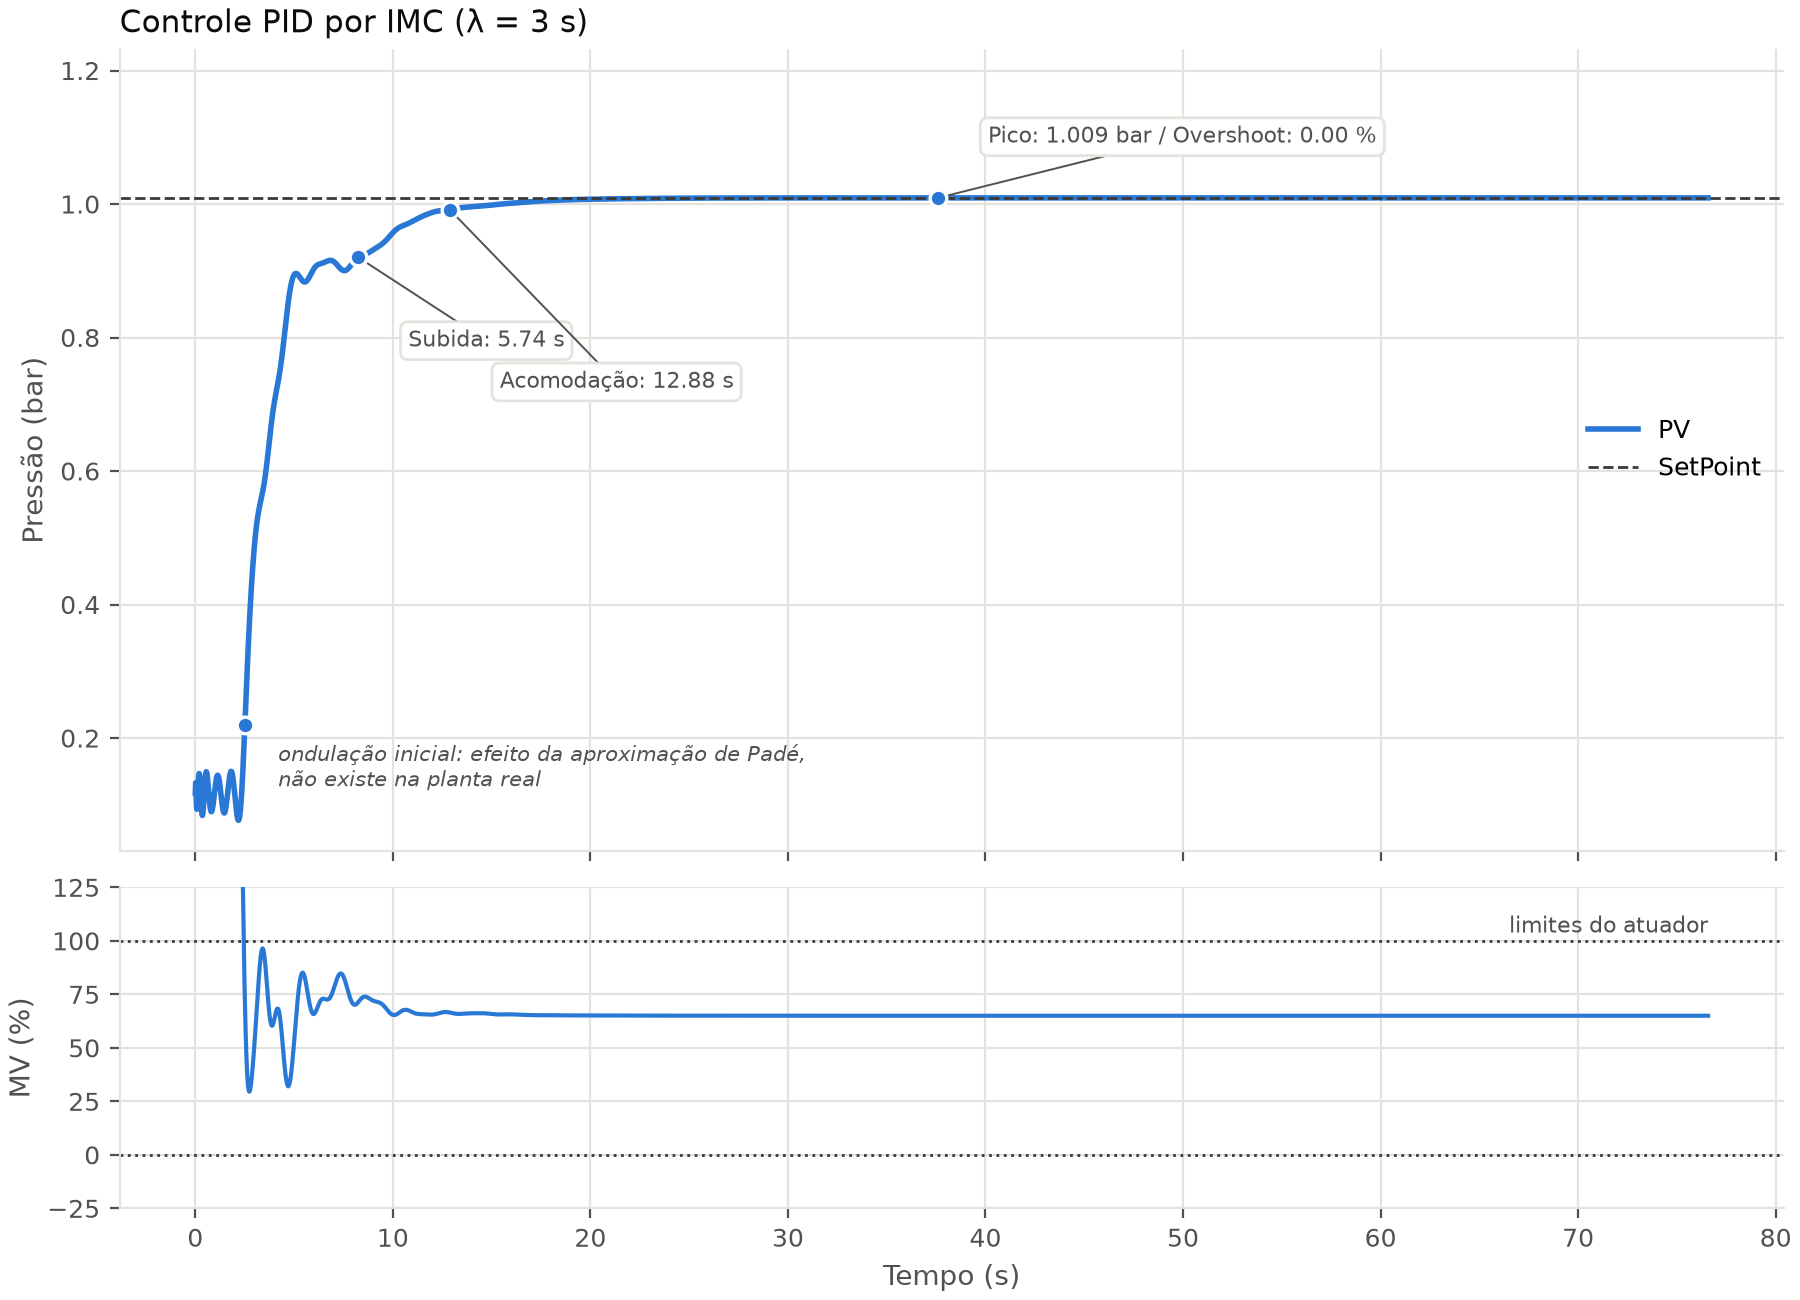
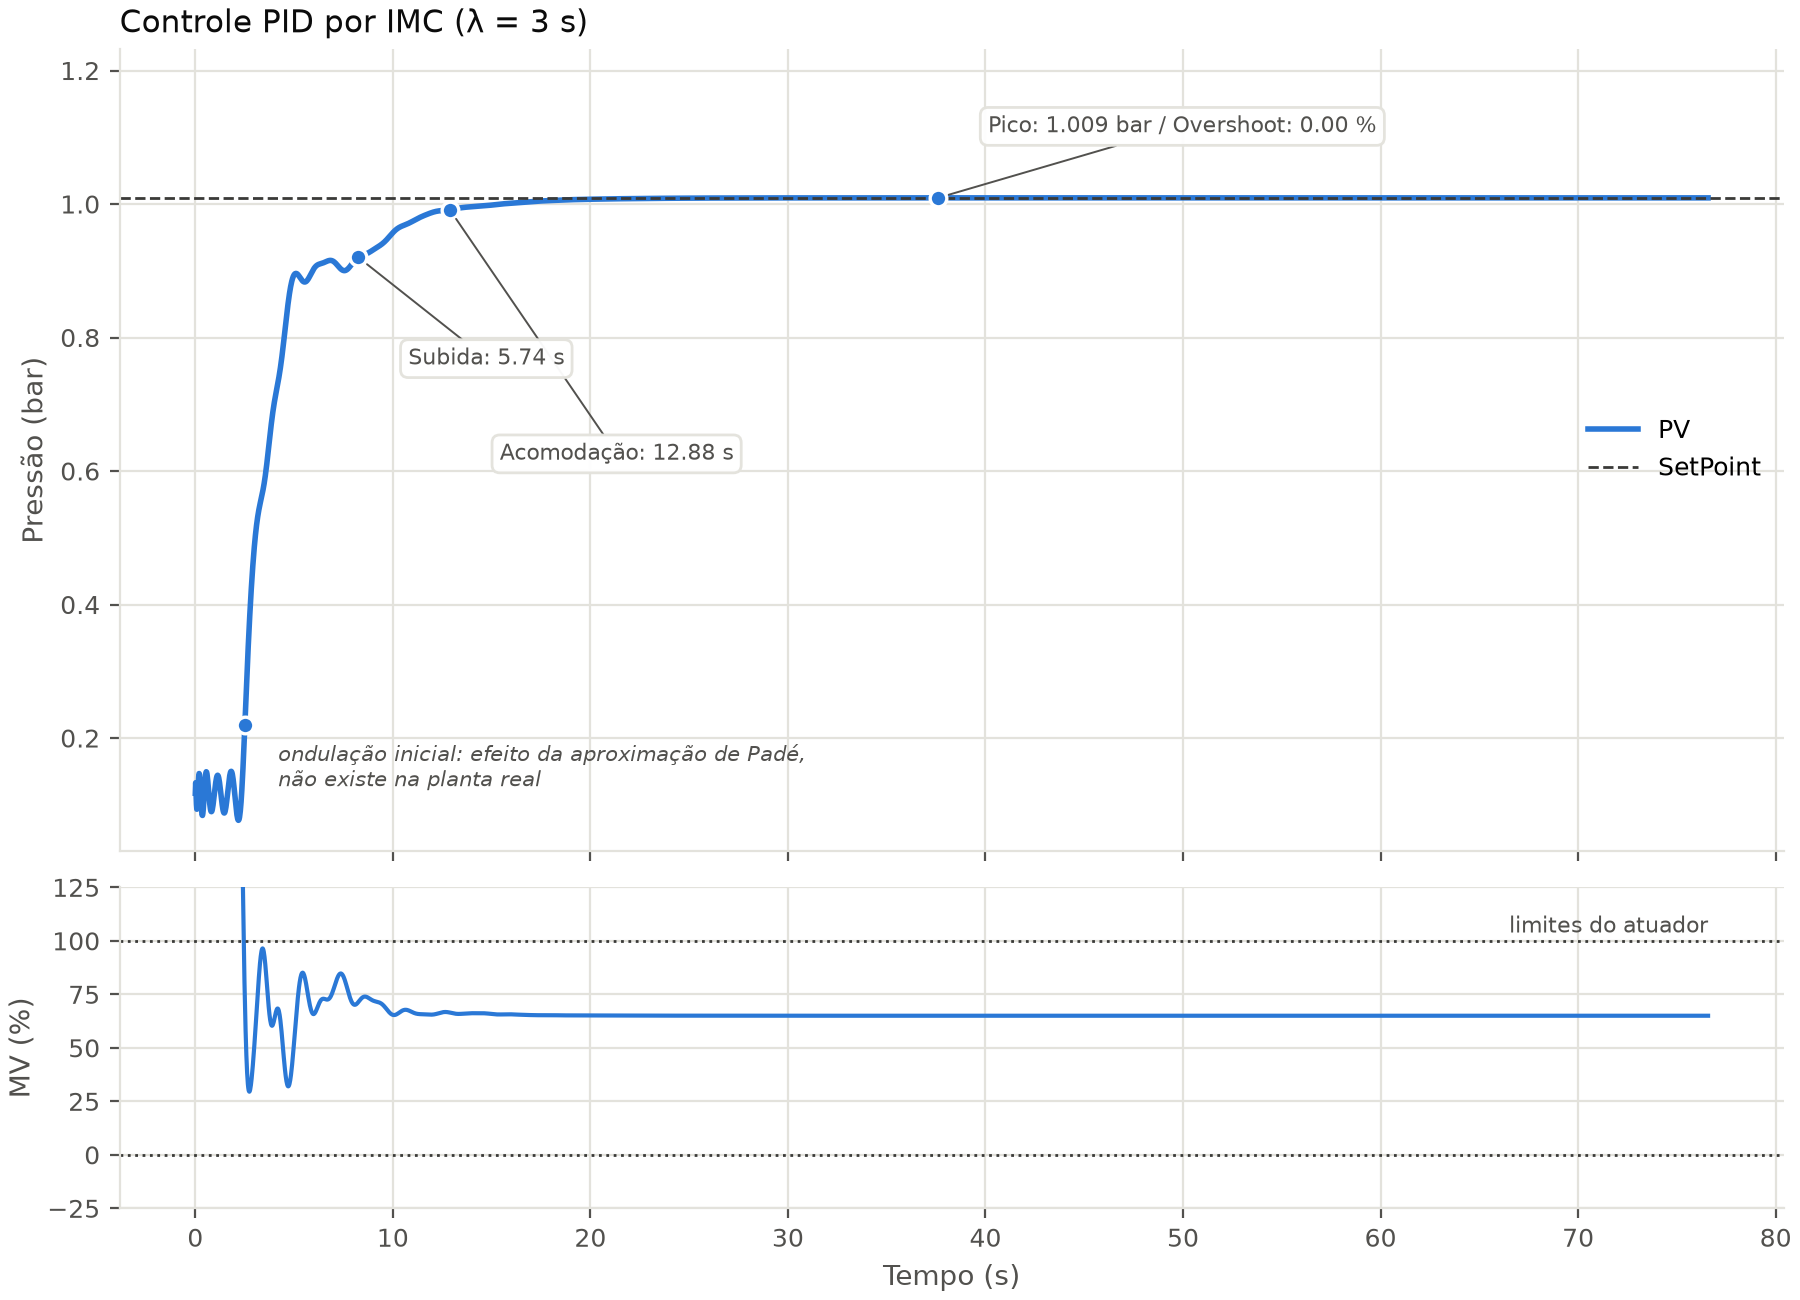
Posiciona os rótulos de subida e acomodação sem sobreposição em qualquer tamanho de gráfico

Changed region(s): [[0.5289, 0.0615, 0.7778, 0.1538], [0.2178, 0.2154, 0.4044, 0.3692]]

diff --git a/src/graficos.py b/src/graficos.py
@@ -112,14 +112,16 @@ def desenhar_controle(ax_pv, ax_mv, resposta, titulo: str = "", unidade: str = "
         ax_pv.plot([x], [y], "o", markersize=6, color=cor, markeredgecolor="white",
                    markeredgewidth=1.2, zorder=5)
 
-    def rotulo(x, y, texto, dy, pontos):
-        """Rótulo ligado ao ponto, deslocado `dy` pontos (positivo = acima da curva).
+    def rotulo(x, y, texto, y_texto, pontos):
+        """Rótulo ligado ao ponto (x, y), com o texto na altura `y_texto` (em dados).
 
-        `pontos` são os pontos do gráfico que acionam o rótulo no hover.
+        A altura em dados, e não em pontos de tela, garante a mesma separação entre
+        rótulos vizinhos em qualquer tamanho de gráfico. `pontos` são os pontos que
+        acionam o rótulo no hover.
         """
         direita = x <= t_meio                  # na metade direita o texto vai para a esquerda
-        anotacao = ax_pv.annotate(texto, (x, y), xytext=(18 if direita else -18, sentido * dy),
-                       textcoords="offset points", ha="left" if direita else "right",
+        anotacao = ax_pv.annotate(texto, (x, y), xytext=(18 if direita else -18, y_texto),
+                       textcoords=("offset points", "data"), ha="left" if direita else "right",
                        va="center", fontsize=8, color=COR_TEXTO, zorder=6,
                        bbox=dict(boxstyle="round,pad=0.35", facecolor="white",
                                  edgecolor=COR_GRADE, alpha=0.96),
@@ -135,23 +137,30 @@ def desenhar_controle(ax_pv, ax_mv, resposta, titulo: str = "", unidade: str = "
                        ha="left", va="bottom" if sentido > 0 else "top", fontsize=7.5,
                        fontstyle="italic", color=COR_TEXTO)
 
+    # Subida e acomodação ficam no lado livre da curva, em degraus a partir da mesma
+    # referência (o nível de 90 %), para nunca se sobreporem; o pico fica do outro lado.
+    degrau = abs(resposta.sp - resposta.y_inicial)
+    base = resposta.y_inicial + 0.9 * (resposta.sp - resposta.y_inicial)
     if "tr" in marcar and np.isfinite(q.tr):
         y10 = float(np.interp(q.t10, resposta.t, resposta.pv))
         y90 = float(np.interp(q.t90, resposta.t, resposta.pv))
         ponto(q.t10, y10)
         ponto(q.t90, y90)
-        rotulo(q.t90, y90, f"Subida: {q.tr:.2f} s", -30, [(q.t10, y10), (q.t90, y90)])
+        rotulo(q.t90, y90, f"Subida: {q.tr:.2f} s", base - sentido * 0.17 * degrau,
+               [(q.t10, y10), (q.t90, y90)])
+        destaques[-1][0].set_zorder(7)   # acima da linha de ligação da acomodação
     if "ts" in marcar and np.isfinite(q.ts):
         y_ts = float(np.interp(q.ts, resposta.t, resposta.pv))
         ponto(q.ts, y_ts)
-        rotulo(q.ts, y_ts, f"Acomodação: {q.ts:.2f} s", -62, [(q.ts, y_ts)])
+        rotulo(q.ts, y_ts, f"Acomodação: {q.ts:.2f} s", base - sentido * 0.33 * degrau,
+               [(q.ts, y_ts)])
     if "mp" in marcar and np.isfinite(q.mp):
         ponto(q.t_pico, q.pico)
-        rotulo(q.t_pico, q.pico, f"Pico: {q.pico:.4g}{sufixo} / Overshoot: {q.mp:.2f} %", 22,
-               [(q.t_pico, q.pico)])
+        rotulo(q.t_pico, q.pico, f"Pico: {q.pico:.4g}{sufixo} / Overshoot: {q.mp:.2f} %",
+               q.pico + sentido * 0.12 * degrau, [(q.t_pico, q.pico)])
         # Folga no lado do pico para o rótulo não sair do gráfico nem cobrir o título.
         baixo, alto = ax_pv.get_ylim()
-        folga = 0.25 * abs(resposta.sp - resposta.y_inicial)
+        folga = 0.25 * degrau
         if sentido > 0:
             ax_pv.set_ylim(baixo, max(alto, q.pico + folga))
         else:
